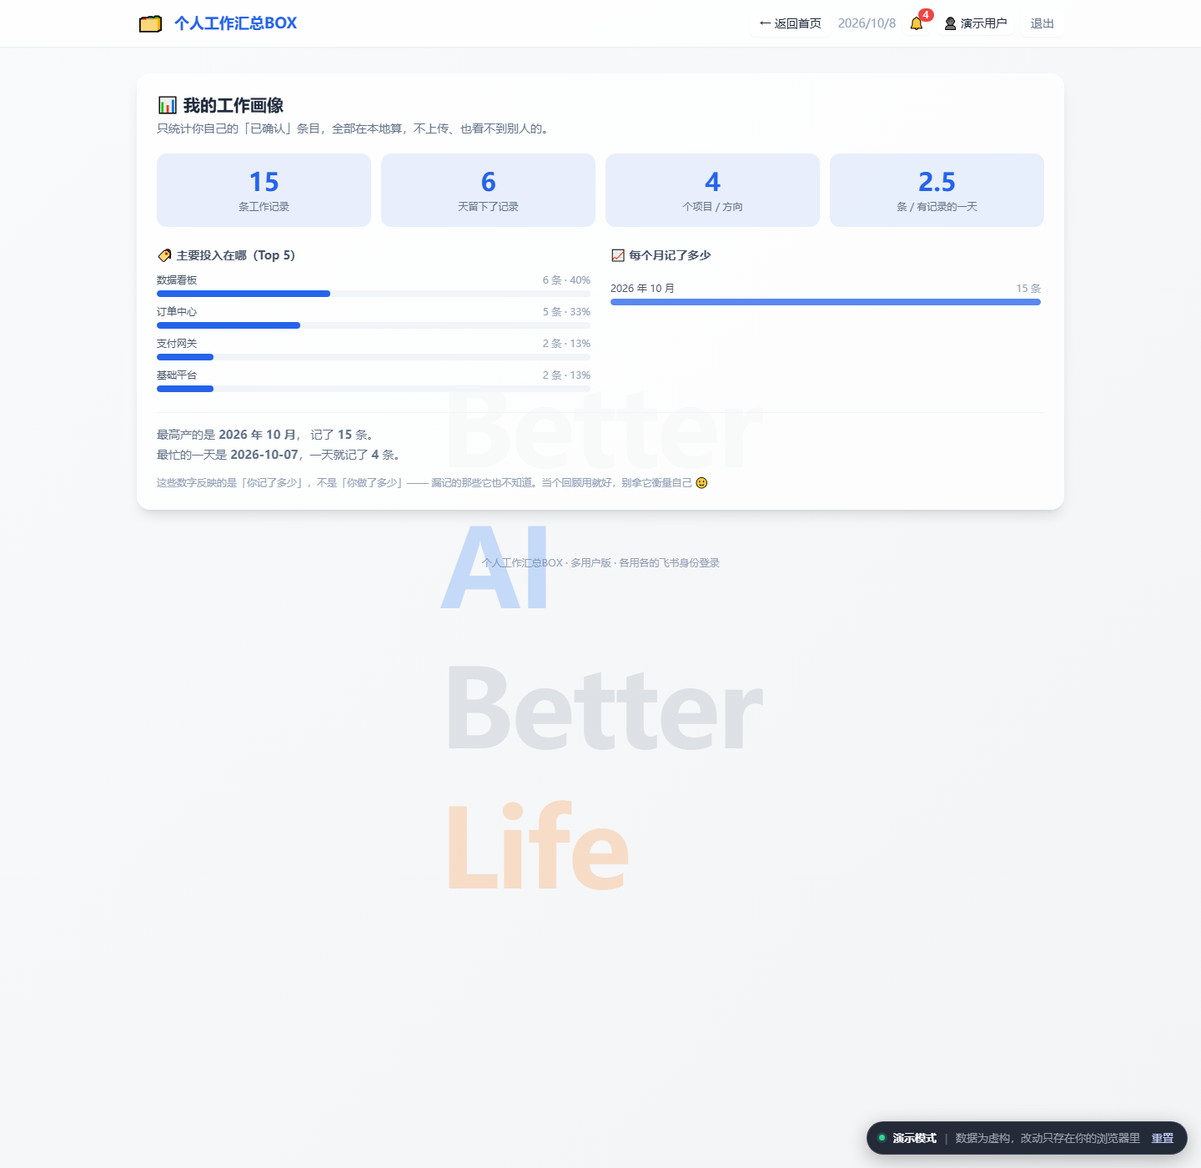
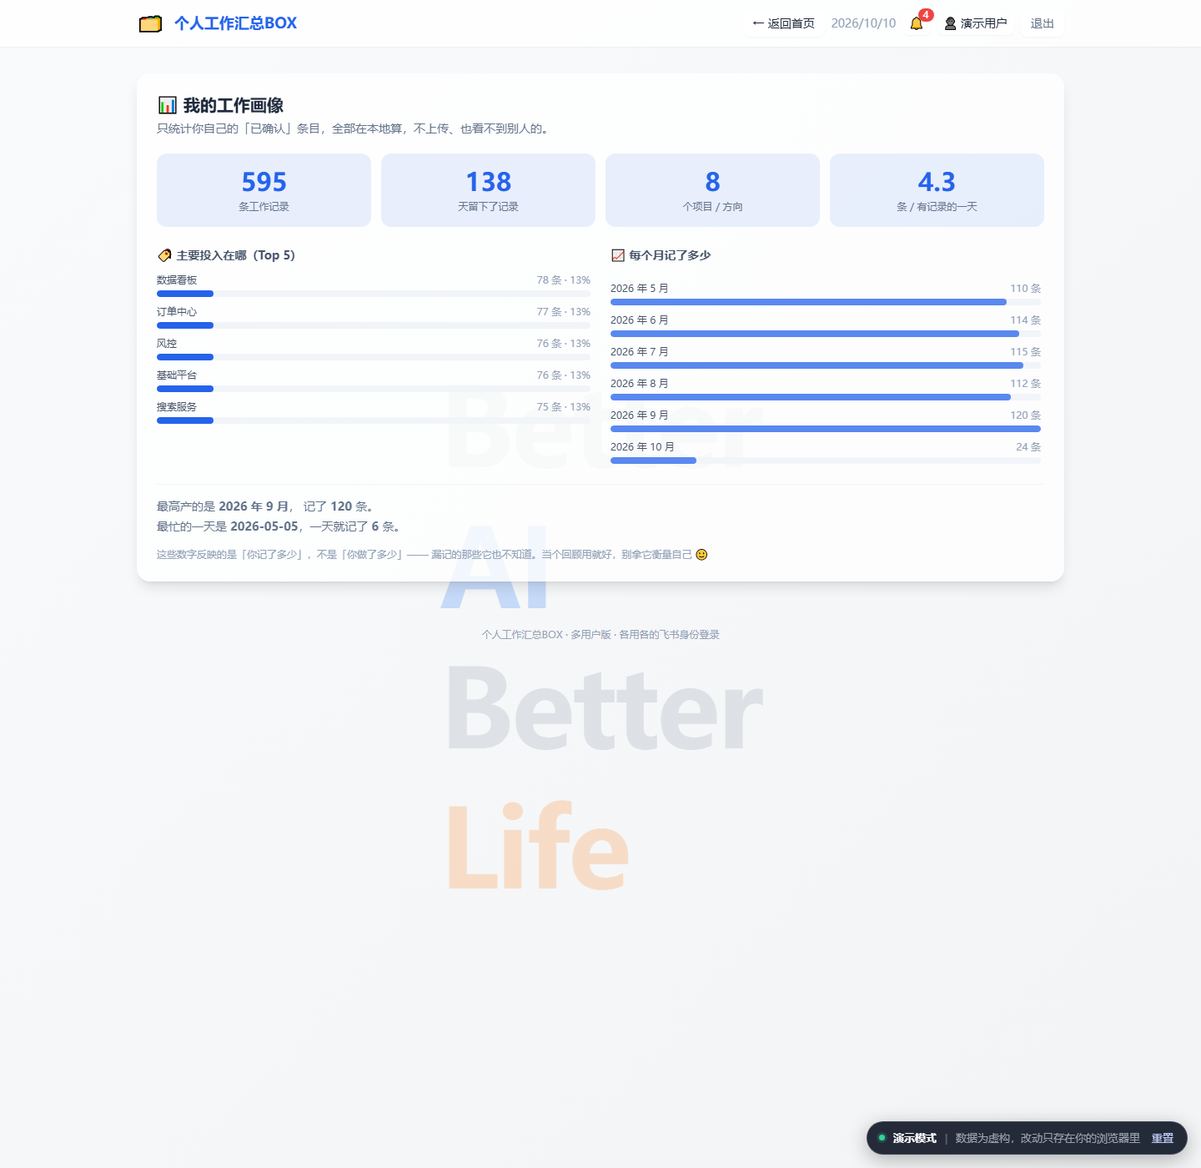
演示数据扩容：归档铺到 5 月、约 600 张卡
- 归档从手写 7 天扩成 5/1 起的组合生成：8 个项目 × 6 动词 × 主题，651 条全部不重样
- 统计数对齐线上量级：浏览 1190（基数 1188，页面加载会 +2）、触发 3547
- 构建产物与截图一并重出

diff --git a/index.html b/index.html
@@ -3984,7 +3984,10 @@ function app() {
 // 发布前的 src/check_public.py 会拿线上库里的真实姓名/群名/项目名反过来扫构建产物，
 // 命中就拦下来 —— 所以这份文件里出现任何真实名字都会在发布前被抓住。
 //
-// 日期按「今天」相对计算，这样任何时候打开演示站，「每日工作确认」里都有当天的待确认卡片。
+// 结构分两段：
+//   1) recent —— 手写的近 7 天，保留具体的故事性（今天的待确认、昨天确认了什么）。
+//   2) archive —— 从 5 月 1 日铺到 7 天前，用「项目 × 动词 × 主题」组合生成，凑到约 600 张。
+// 日期一律按「今天」相对计算，所以任何时候打开，最新一天都是今天。
 (function () {
   const DAY = 86400000;
   const pad = (n) => String(n).padStart(2, '0');
@@ -3996,10 +3999,27 @@ function app() {
   const ME = 'ou_demo_0000000000000001';
   const OWNER = ME;
 
+  // 确定性伪随机（mulberry32）：同一份代码每次生成的数据完全一样，
+  // 否则每刷一次页面归档就变一次，截图和「重置演示数据」都会前后不一致。
+  function mulberry32(a) {
+    return function () {
+      a |= 0; a = (a + 0x6D2B79F5) | 0;
+      let t = Math.imul(a ^ (a >>> 15), 1 | a);
+      t = (t + Math.imul(t ^ (t >>> 7), 61 | t)) ^ t;
+      return ((t ^ (t >>> 14)) >>> 0) / 4294967296;
+    };
+  }
+  const rnd = mulberry32(20260501);
+  const hex16 = () => {
+    let s = '';
+    for (let i = 0; i < 16; i++) s += '0123456789abcdef'[(rnd() * 16) | 0];
+    return s;
+  };
+
   // sig = 后端 work_signature() 的产物（sha1 前 16 位）。演示数据里给固定值即可，
   // 前端只把它当不透明字符串，不做校验。
-  const item = (back, title, detail, project, status, count, sig) => ({
-    id: 'wi_' + sig,
+  const mkItem = (back, title, detail, project, status, count, sig) => ({
+    id: 'wi_' + (sig || hex16()),
     work_date: day(back),
     title: title,
     detail: detail,
@@ -4008,15 +4028,21 @@ function app() {
     status: status,
     created_at: at(back, 18, 30),
     owner_open_id: OWNER,
-    sig: sig,
+    sig: sig || '',
   });
 
-  const items = [
+  // 手写的近 7 天，带明确的因果与进展（归档里那批是组合生成的，没这么细）
+  const item = (back, title, detail, project, status, count, sig) =>
+    mkItem(back, title, detail, project, status, count, sig);
+
+  const recent = [
     // ---- 今天：待确认（打开页面就能看到这一批） ----
     item(0, '修复订单列表末页多返回一条数据', '翻页参数多算了一次偏移量，末页会多带出下一条订单', '订单中心', 'pending', 6, 'a1f30c7d2b9e4401'),
     item(0, '和产品对齐下周排期，确定先做导出', '确认导出功能优先级最高，下周三前出接口文档', '数据看板', 'pending', 4, 'b7e21a05c4d18f32'),
     item(0, '给支付回调补幂等校验', '同一笔回调重放会重复入账，按订单号+流水号做去重', '支付网关', 'pending', 5, 'c92d4f1e8a370b56'),
     item(0, 'Review 同事的本地缓存改造 PR', '提了 3 条意见：缓存失效时机、并发写、降级路径', '基础平台', 'pending', 3, 'd4a86b2f7c1e9035'),
+    item(0, '把本周的线上问题整理进值班记录', '把工单和告警按影响面排了序，标出 3 个要跟进的', '基础平台', 'pending', 4, 'd9b7c3e5a1f20468'),
+    item(0, '和上游确认对账文件的字段变更', '对方下版本会加两个字段，提前对齐兼容方案', '支付网关', 'pending', 3, 'e5c8d4f6b2a31579'),
 
     // ---- 昨天：已确认 ----
     item(1, '用户增长报表 SQL 从 8 秒优化到 1.2 秒', '去掉两个嵌套子查询，改成一次预聚合 + 索引覆盖', '数据看板', 'confirmed', 7, 'e1b95c3a6d240f87'),
@@ -4047,6 +4073,116 @@ function app() {
     item(6, '接入新的对账文件格式', '上游换了分隔符和编码，兼容新旧两种格式', '支付网关', 'confirmed', 5, 'b7e4f1c3d0a86529'),
     item(6, '重构看板查询层，抽出公共过滤器', '把 5 处重复的时间/部门过滤收敛成一个组件', '数据看板', 'confirmed', 6, 'c8f5a2d4e1b97630'),
   ];
+
+  // ---------------------------------------------------------------- 归档（5 月起）
+  // 每个项目配一组「问题」和一组「事项」，分别接各自的动词模板，交叉出足够多的
+  // 不重样标题。生成器从 5 月 1 日往回逐天取，工作日多、周末少，凑到约 600 张。
+  const BUG_VERBS = [
+    ['修复', '定位到问题后改了实现，补了回归用例'],
+    ['排查', '排查下来是缓存没及时失效，加了失效钩子'],
+    ['定位', '半天定位到根因，是并发下读到了脏数据'],
+    ['跟进', '跟进线上反馈，确认影响面后当天收口'],
+    ['复盘', '复盘了触发条件，写进了值班手册'],
+    ['回归', '做了回归验证，顺带把边界用例补上'],
+  ];
+  const TASK_VERBS = [
+    ['优化', '改完链路短了一截，也好维护了'],
+    ['重构', '把散落各处的逻辑收敛到一处'],
+    ['拆分', '拆成几步后职责清晰，也方便加测试'],
+    ['梳理', '整理成一页说明，同步给了组里'],
+    ['接入', '跑通后补上了监控和告警'],
+    ['补充', '补上之前缺失的兜底分支'],
+  ];
+
+  const PROJECTS = [
+    ['订单中心',
+      ['订单列表末页多返回一条数据', '优惠券并发下的重复核销', '订单超时关闭不及时', '导出 CSV 的中文乱码',
+       '下单接口缺少幂等', '退款金额算错一分钱', '订单搜索按时间筛选失效', '购物车合并后数量对不上'],
+      ['订单列表的查询性能', '订单状态机的测试覆盖', '下单链路的埋点', '订单相关表慢查询的索引',
+       '订单服务的错误码', '超时关闭任务的调度策略']],
+    ['数据看板',
+      ['日活报表少算一个渠道', '看板按部门筛选没生效', '留存漏斗的同环比算错', '导出图片时坐标轴截断',
+       '自定义时间范围偶发空数据', '看板首屏偶发白屏', '报表缓存没按时失效', '多选筛选项超过上限后错乱'],
+      ['看板首屏的加载性能', '查询层的公共过滤器', '报表定时任务的调度时间', '看板的权限校验',
+       '报表 SQL 的执行计划', '看板的维度配置']],
+    ['支付网关',
+      ['支付回调缺少幂等', '对账文件解析少一条', '退款状态与订单不同步', '重复通知下游',
+       '签名校验在空参数下被绕过', '对账任务失败没有告警', '支付金额出现精度丢失', '回调重试到上限后静默失败'],
+      ['支付链路的超时策略', '对账任务的失败重试', '网关的限流配置', '支付相关的日志',
+       '回调地址的配置', '支付失败的错误提示']],
+    ['基础平台',
+      ['日志采集偶发丢日志', 'CI 构建偶发超时', '配置中心热更新没生效', '定时任务重复执行',
+       '健康检查误报', '缓存预热在重启后失效', '发布脚本在 Windows 上挂掉', '网关超时时间配错'],
+      ['CI 流水线的构建时间', '日志采集的异步化', '配置中心的灰度发布', '基础镜像的体积',
+       '定时任务的调度器', '监控告警的阈值']],
+    ['用户增长',
+      ['邀请码可以重复领取', '新人引导页偶发卡住', '活动页在 iOS 上按钮点不到', '分享链接参数丢失',
+       '积分到账延迟', '老用户被误判成新人', '活动库存超卖', '短信验证码偶发收不到'],
+      ['增长活动的埋点', '新人引导的流程', '活动页的首屏', '积分规则的说明文档',
+       '增长报表的口径', '分享链路']],
+    ['搜索服务',
+      ['中文关键词搜不到结果', '搜索排序偶发错乱', '同义词没生效', '搜索结果分页重复',
+       '高亮标签位置偏了', '空查询返回了全量', '搜索接口偶发超时', '热词统计不准'],
+      ['搜索的分词策略', '索引重建的耗时', '搜索接口的缓存', '排序权重的配置',
+       '搜索日志', '搜索的降级方案']],
+    ['消息推送',
+      ['推送偶发重复', '消息顺序错乱', '群消息漏推', '推送文案超长被截断',
+       '已读状态不同步', '推送到达率统计偏低', '夜间免打扰没生效', '推送模板变量没替换'],
+      ['推送的重试策略', '推送到达率统计', '消息模板管理', '推送的限流',
+       '推送日志', '推送渠道的配置']],
+    ['风控',
+      ['同一设备被判定成多账号', '风控规则误杀正常用户', '黑名单没及时生效', '异地登录没触发校验',
+       '风控日志缺少上下文', '规则命中后没记录原因', '批量请求绕过了限流', '策略回滚后状态残留'],
+      ['风控规则的配置界面', '规则命中的可解释性', '风控策略的灰度', '风控日志',
+       '风控的限流阈值', '风险名单的同步']],
+  ];
+
+  function buildPool() {
+    const out = [];
+    PROJECTS.forEach(function (p) {
+      const proj = p[0], bugs = p[1], tasks = p[2];
+      BUG_VERBS.forEach(function (v) {
+        bugs.forEach(function (ph) { out.push([proj, v[0] + ph, v[0] + ph + '，' + v[1]]); });
+      });
+      TASK_VERBS.forEach(function (v) {
+        tasks.forEach(function (ph) { out.push([proj, v[0] + ph, v[0] + ph + '，' + v[1]]); });
+      });
+    });
+    // 确定性洗牌，让每天出现的是不同项目、不同主题，而不是一个项目连着刷
+    for (let i = out.length - 1; i > 0; i--) {
+      const j = (rnd() * (i + 1)) | 0;
+      const t = out[i]; out[i] = out[j]; out[j] = t;
+    }
+    return out;
+  }
+
+  function genArchive() {
+    const pool = buildPool();
+    // 起点是「今年 5 月 1 日」；万一今天还没到 5 月，就退回去年 5 月
+    let may1 = new Date(new Date().getFullYear(), 4, 1);
+    if (may1.getTime() > Date.now()) may1 = new Date(new Date().getFullYear() - 1, 4, 1);
+    // 用 floor：round 会把边界多算一天，5 月 1 日当天就漏出 4 月 30 日来了
+    let maxBack = Math.floor((Date.now() - may1.getTime()) / DAY);
+    if (maxBack < 7) maxBack = 7;
+
+    const out = [];
+    let pi = 0;
+    // back 从 7 起：再近的几天上面手写过了，别撞车
+    for (let back = 7; back <= maxBack && pi < pool.length; back++) {
+      const dow = new Date(Date.now() - back * DAY).getDay();   // 0=周日 6=周六
+      const weekend = dow === 0 || dow === 6;
+      const n = weekend ? (rnd() < 0.4 ? 1 : 0) : 5 + ((rnd() * 2) | 0);   // 工作日 5~6 张
+      for (let k = 0; k < n && pi < pool.length; k++, pi++) {
+        const row = pool[pi];
+        // 偶尔有几张是被忽略的：跟真实归档一样，不是每条都值得留
+        const status = (!weekend && rnd() < 0.07) ? 'ignored' : 'confirmed';
+        out.push(mkItem(back, row[1], row[2], row[0], status, 1 + ((rnd() * 8) | 0)));
+      }
+    }
+    return out;
+  }
+
+  const items = recent.concat(genArchive());
 
   // ---- 预置报告：供「生成报告」的 SSE 流式回放（演示站不会真的调大模型） ----
   const weekly = [
@@ -4155,7 +4291,9 @@ function app() {
       llm_base_url: 'https://api.example-llm.com/v1',
       llm_model: 'gpt-4o-mini',
     },
-    stats: { views: 1842, triggers: 137, visitors: 96, views_today: 41 },
+    // views 给 1188 而不是 1190：页面每次加载都会 bumpView()，实测一次加载显示 +2，
+    // 所以基数压 2 才能让「第一次打开就显示 1190」。
+    stats: { views: 1188, triggers: 3547, visitors: 96, views_today: 41 },
     items: items,
     reports: { weekly: weekly, monthly: monthly },
     feedback: feedback,

diff --git a/src/demo_data.js b/src/demo_data.js
@@ -5,7 +5,10 @@
 // 发布前的 src/check_public.py 会拿线上库里的真实姓名/群名/项目名反过来扫构建产物，
 // 命中就拦下来 —— 所以这份文件里出现任何真实名字都会在发布前被抓住。
 //
-// 日期按「今天」相对计算，这样任何时候打开演示站，「每日工作确认」里都有当天的待确认卡片。
+// 结构分两段：
+//   1) recent —— 手写的近 7 天，保留具体的故事性（今天的待确认、昨天确认了什么）。
+//   2) archive —— 从 5 月 1 日铺到 7 天前，用「项目 × 动词 × 主题」组合生成，凑到约 600 张。
+// 日期一律按「今天」相对计算，所以任何时候打开，最新一天都是今天。
 (function () {
   const DAY = 86400000;
   const pad = (n) => String(n).padStart(2, '0');
@@ -17,10 +20,27 @@
   const ME = 'ou_demo_0000000000000001';
   const OWNER = ME;
 
+  // 确定性伪随机（mulberry32）：同一份代码每次生成的数据完全一样，
+  // 否则每刷一次页面归档就变一次，截图和「重置演示数据」都会前后不一致。
+  function mulberry32(a) {
+    return function () {
+      a |= 0; a = (a + 0x6D2B79F5) | 0;
+      let t = Math.imul(a ^ (a >>> 15), 1 | a);
+      t = (t + Math.imul(t ^ (t >>> 7), 61 | t)) ^ t;
+      return ((t ^ (t >>> 14)) >>> 0) / 4294967296;
+    };
+  }
+  const rnd = mulberry32(20260501);
+  const hex16 = () => {
+    let s = '';
+    for (let i = 0; i < 16; i++) s += '0123456789abcdef'[(rnd() * 16) | 0];
+    return s;
+  };
+
   // sig = 后端 work_signature() 的产物（sha1 前 16 位）。演示数据里给固定值即可，
   // 前端只把它当不透明字符串，不做校验。
-  const item = (back, title, detail, project, status, count, sig) => ({
-    id: 'wi_' + sig,
+  const mkItem = (back, title, detail, project, status, count, sig) => ({
+    id: 'wi_' + (sig || hex16()),
     work_date: day(back),
     title: title,
     detail: detail,
@@ -29,15 +49,21 @@
     status: status,
     created_at: at(back, 18, 30),
     owner_open_id: OWNER,
-    sig: sig,
+    sig: sig || '',
   });
 
-  const items = [
+  // 手写的近 7 天，带明确的因果与进展（归档里那批是组合生成的，没这么细）
+  const item = (back, title, detail, project, status, count, sig) =>
+    mkItem(back, title, detail, project, status, count, sig);
+
+  const recent = [
     // ---- 今天：待确认（打开页面就能看到这一批） ----
     item(0, '修复订单列表末页多返回一条数据', '翻页参数多算了一次偏移量，末页会多带出下一条订单', '订单中心', 'pending', 6, 'a1f30c7d2b9e4401'),
     item(0, '和产品对齐下周排期，确定先做导出', '确认导出功能优先级最高，下周三前出接口文档', '数据看板', 'pending', 4, 'b7e21a05c4d18f32'),
     item(0, '给支付回调补幂等校验', '同一笔回调重放会重复入账，按订单号+流水号做去重', '支付网关', 'pending', 5, 'c92d4f1e8a370b56'),
     item(0, 'Review 同事的本地缓存改造 PR', '提了 3 条意见：缓存失效时机、并发写、降级路径', '基础平台', 'pending', 3, 'd4a86b2f7c1e9035'),
+    item(0, '把本周的线上问题整理进值班记录', '把工单和告警按影响面排了序，标出 3 个要跟进的', '基础平台', 'pending', 4, 'd9b7c3e5a1f20468'),
+    item(0, '和上游确认对账文件的字段变更', '对方下版本会加两个字段，提前对齐兼容方案', '支付网关', 'pending', 3, 'e5c8d4f6b2a31579'),
 
     // ---- 昨天：已确认 ----
     item(1, '用户增长报表 SQL 从 8 秒优化到 1.2 秒', '去掉两个嵌套子查询，改成一次预聚合 + 索引覆盖', '数据看板', 'confirmed', 7, 'e1b95c3a6d240f87'),
@@ -68,6 +94,116 @@
     item(6, '接入新的对账文件格式', '上游换了分隔符和编码，兼容新旧两种格式', '支付网关', 'confirmed', 5, 'b7e4f1c3d0a86529'),
     item(6, '重构看板查询层，抽出公共过滤器', '把 5 处重复的时间/部门过滤收敛成一个组件', '数据看板', 'confirmed', 6, 'c8f5a2d4e1b97630'),
   ];
+
+  // ---------------------------------------------------------------- 归档（5 月起）
+  // 每个项目配一组「问题」和一组「事项」，分别接各自的动词模板，交叉出足够多的
+  // 不重样标题。生成器从 5 月 1 日往回逐天取，工作日多、周末少，凑到约 600 张。
+  const BUG_VERBS = [
+    ['修复', '定位到问题后改了实现，补了回归用例'],
+    ['排查', '排查下来是缓存没及时失效，加了失效钩子'],
+    ['定位', '半天定位到根因，是并发下读到了脏数据'],
+    ['跟进', '跟进线上反馈，确认影响面后当天收口'],
+    ['复盘', '复盘了触发条件，写进了值班手册'],
+    ['回归', '做了回归验证，顺带把边界用例补上'],
+  ];
+  const TASK_VERBS = [
+    ['优化', '改完链路短了一截，也好维护了'],
+    ['重构', '把散落各处的逻辑收敛到一处'],
+    ['拆分', '拆成几步后职责清晰，也方便加测试'],
+    ['梳理', '整理成一页说明，同步给了组里'],
+    ['接入', '跑通后补上了监控和告警'],
+    ['补充', '补上之前缺失的兜底分支'],
+  ];
+
+  const PROJECTS = [
+    ['订单中心',
+      ['订单列表末页多返回一条数据', '优惠券并发下的重复核销', '订单超时关闭不及时', '导出 CSV 的中文乱码',
+       '下单接口缺少幂等', '退款金额算错一分钱', '订单搜索按时间筛选失效', '购物车合并后数量对不上'],
+      ['订单列表的查询性能', '订单状态机的测试覆盖', '下单链路的埋点', '订单相关表慢查询的索引',
+       '订单服务的错误码', '超时关闭任务的调度策略']],
+    ['数据看板',
+      ['日活报表少算一个渠道', '看板按部门筛选没生效', '留存漏斗的同环比算错', '导出图片时坐标轴截断',
+       '自定义时间范围偶发空数据', '看板首屏偶发白屏', '报表缓存没按时失效', '多选筛选项超过上限后错乱'],
+      ['看板首屏的加载性能', '查询层的公共过滤器', '报表定时任务的调度时间', '看板的权限校验',
+       '报表 SQL 的执行计划', '看板的维度配置']],
+    ['支付网关',
+      ['支付回调缺少幂等', '对账文件解析少一条', '退款状态与订单不同步', '重复通知下游',
+       '签名校验在空参数下被绕过', '对账任务失败没有告警', '支付金额出现精度丢失', '回调重试到上限后静默失败'],
+      ['支付链路的超时策略', '对账任务的失败重试', '网关的限流配置', '支付相关的日志',
+       '回调地址的配置', '支付失败的错误提示']],
+    ['基础平台',
+      ['日志采集偶发丢日志', 'CI 构建偶发超时', '配置中心热更新没生效', '定时任务重复执行',
+       '健康检查误报', '缓存预热在重启后失效', '发布脚本在 Windows 上挂掉', '网关超时时间配错'],
+      ['CI 流水线的构建时间', '日志采集的异步化', '配置中心的灰度发布', '基础镜像的体积',
+       '定时任务的调度器', '监控告警的阈值']],
+    ['用户增长',
+      ['邀请码可以重复领取', '新人引导页偶发卡住', '活动页在 iOS 上按钮点不到', '分享链接参数丢失',
+       '积分到账延迟', '老用户被误判成新人', '活动库存超卖', '短信验证码偶发收不到'],
+      ['增长活动的埋点', '新人引导的流程', '活动页的首屏', '积分规则的说明文档',
+       '增长报表的口径', '分享链路']],
+    ['搜索服务',
+      ['中文关键词搜不到结果', '搜索排序偶发错乱', '同义词没生效', '搜索结果分页重复',
+       '高亮标签位置偏了', '空查询返回了全量', '搜索接口偶发超时', '热词统计不准'],
+      ['搜索的分词策略', '索引重建的耗时', '搜索接口的缓存', '排序权重的配置',
+       '搜索日志', '搜索的降级方案']],
+    ['消息推送',
+      ['推送偶发重复', '消息顺序错乱', '群消息漏推', '推送文案超长被截断',
+       '已读状态不同步', '推送到达率统计偏低', '夜间免打扰没生效', '推送模板变量没替换'],
+      ['推送的重试策略', '推送到达率统计', '消息模板管理', '推送的限流',
+       '推送日志', '推送渠道的配置']],
+    ['风控',
+      ['同一设备被判定成多账号', '风控规则误杀正常用户', '黑名单没及时生效', '异地登录没触发校验',
+       '风控日志缺少上下文', '规则命中后没记录原因', '批量请求绕过了限流', '策略回滚后状态残留'],
+      ['风控规则的配置界面', '规则命中的可解释性', '风控策略的灰度', '风控日志',
+       '风控的限流阈值', '风险名单的同步']],
+  ];
+
+  function buildPool() {
+    const out = [];
+    PROJECTS.forEach(function (p) {
+      const proj = p[0], bugs = p[1], tasks = p[2];
+      BUG_VERBS.forEach(function (v) {
+        bugs.forEach(function (ph) { out.push([proj, v[0] + ph, v[0] + ph + '，' + v[1]]); });
+      });
+      TASK_VERBS.forEach(function (v) {
+        tasks.forEach(function (ph) { out.push([proj, v[0] + ph, v[0] + ph + '，' + v[1]]); });
+      });
+    });
+    // 确定性洗牌，让每天出现的是不同项目、不同主题，而不是一个项目连着刷
+    for (let i = out.length - 1; i > 0; i--) {
+      const j = (rnd() * (i + 1)) | 0;
+      const t = out[i]; out[i] = out[j]; out[j] = t;
+    }
+    return out;
+  }
+
+  function genArchive() {
+    const pool = buildPool();
+    // 起点是「今年 5 月 1 日」；万一今天还没到 5 月，就退回去年 5 月
+    let may1 = new Date(new Date().getFullYear(), 4, 1);
+    if (may1.getTime() > Date.now()) may1 = new Date(new Date().getFullYear() - 1, 4, 1);
+    // 用 floor：round 会把边界多算一天，5 月 1 日当天就漏出 4 月 30 日来了
+    let maxBack = Math.floor((Date.now() - may1.getTime()) / DAY);
+    if (maxBack < 7) maxBack = 7;
+
+    const out = [];
+    let pi = 0;
+    // back 从 7 起：再近的几天上面手写过了，别撞车
+    for (let back = 7; back <= maxBack && pi < pool.length; back++) {
+      const dow = new Date(Date.now() - back * DAY).getDay();   // 0=周日 6=周六
+      const weekend = dow === 0 || dow === 6;
+      const n = weekend ? (rnd() < 0.4 ? 1 : 0) : 5 + ((rnd() * 2) | 0);   // 工作日 5~6 张
+      for (let k = 0; k < n && pi < pool.length; k++, pi++) {
+        const row = pool[pi];
+        // 偶尔有几张是被忽略的：跟真实归档一样，不是每条都值得留
+        const status = (!weekend && rnd() < 0.07) ? 'ignored' : 'confirmed';
+        out.push(mkItem(back, row[1], row[2], row[0], status, 1 + ((rnd() * 8) | 0)));
+      }
+    }
+    return out;
+  }
+
+  const items = recent.concat(genArchive());
 
   // ---- 预置报告：供「生成报告」的 SSE 流式回放（演示站不会真的调大模型） ----
   const weekly = [
@@ -176,7 +312,9 @@
       llm_base_url: 'https://api.example-llm.com/v1',
       llm_model: 'gpt-4o-mini',
     },
-    stats: { views: 1842, triggers: 137, visitors: 96, views_today: 41 },
+    // views 给 1188 而不是 1190：页面每次加载都会 bumpView()，实测一次加载显示 +2，
+    // 所以基数压 2 才能让「第一次打开就显示 1190」。
+    stats: { views: 1188, triggers: 3547, visitors: 96, views_today: 41 },
     items: items,
     reports: { weekly: weekly, monthly: monthly },
     feedback: feedback,
